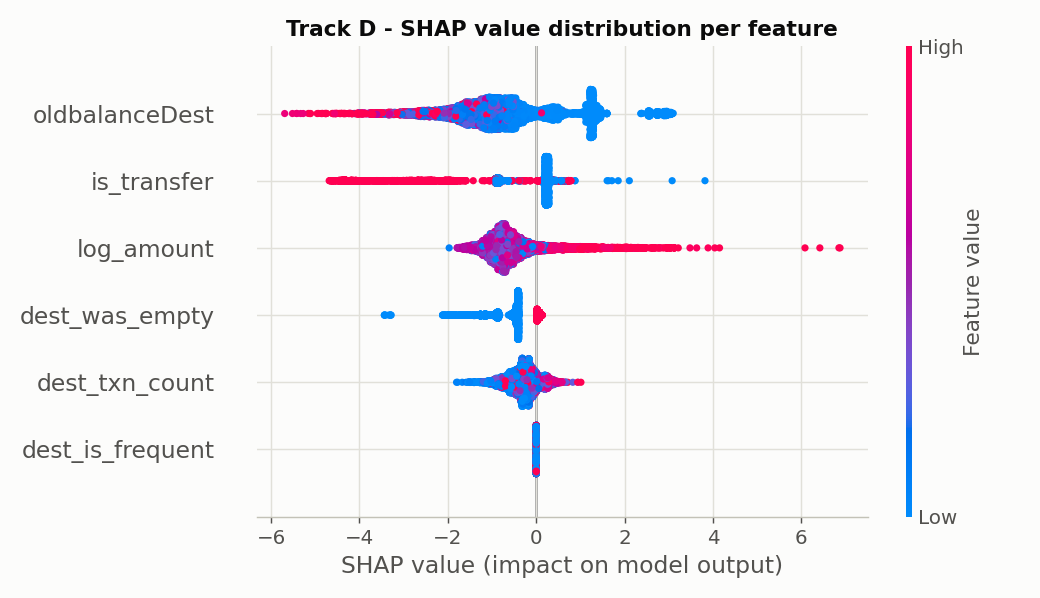
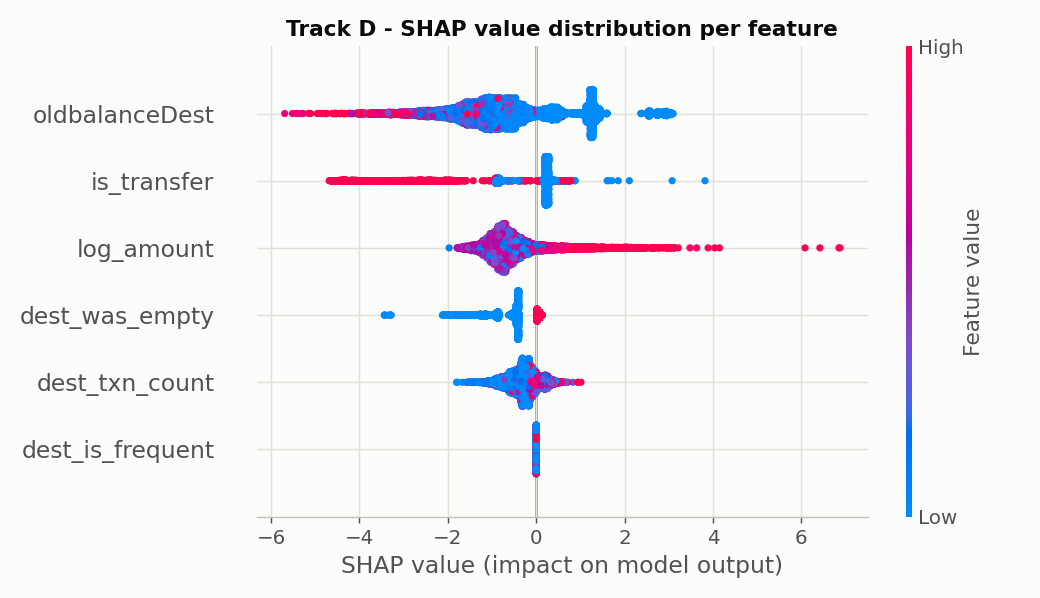
Correct Week 3 conclusions and add operational ranking analysis to README

diff --git a/src/advanced_models.py b/src/advanced_models.py
@@ -46,6 +46,7 @@ from features import (
     build_features, subsample_majority,
 )
 
+WEEK2_JSON = os.path.join("reports", "week2_metrics.json")
 DEFAULT_DB = os.path.join("data", "processed", "fraud.db")
 FIG_DIR = os.path.join("reports", "figures")
 MODEL_DIR = "models"
@@ -62,6 +63,23 @@ PARAM_GRID = [
     {"max_depth": 6, "learning_rate": 0.05, "n_estimators": 600},
     {"max_depth": 8, "learning_rate": 0.05, "n_estimators": 400},
 ]
+
+
+def load_week2_best():
+    """Best Week 2 PR-AUC per track, so Week 3 can compare against it rather
+    than asserting a conclusion the numbers may not support."""
+    if not os.path.exists(WEEK2_JSON):
+        return {}
+    with open(WEEK2_JSON, encoding="utf-8") as fh:
+        data = json.load(fh)
+    best = {}
+    for r in data.get("results", []):
+        track = r.get("track")
+        if not track or "pr_auc" not in r:
+            continue
+        if track not in best or r["pr_auc"] > best[track]["pr_auc"]:
+            best[track] = r
+    return best
 
 
 def temporal_validation_split(train_df, val_frac=0.25):
@@ -155,6 +173,7 @@ def main(db_path, review_cost):
     for d in (FIG_DIR, MODEL_DIR, os.path.dirname(RESULTS_MD)):
         os.makedirs(d, exist_ok=True)
 
+    week2 = load_week2_best()
     print("Building features...")
     train_df, test_df, split_step = build_features(db_path)
     fit_df, val_df = temporal_validation_split(train_df)
@@ -275,6 +294,77 @@ def main(db_path, review_cost):
                    "break_even_review_cost": be}, fh, indent=2)
 
     d_row = [r for r in rows if r["track"].startswith("Track D")][0]
+
+    # --- derive the comparison and verdicts from the numbers ----------------
+    no_skill = float(y_test.mean())
+    iso_lift = iso_m["pr_auc"] / no_skill if no_skill else 0.0
+
+    comp_lines = ["| Track | Random Forest (Week 2) | XGBoost (Week 3) | Change |",
+                  "|---|---|---|---|"]
+    improved = {}
+    for r in rows:
+        prev = week2.get(r["track"], {}).get("pr_auc")
+        if prev is None:
+            comp_lines.append(
+                f"| {r['track']} | - | {r['pr_auc']:.4f} | - |")
+            continue
+        delta = r["pr_auc"] - prev
+        improved[r["track"]] = (prev, r["pr_auc"], delta)
+        comp_lines.append(
+            f"| {r['track']} | {prev:.4f} | {r['pr_auc']:.4f} | "
+            f"{delta:+.4f} |")
+    comparison_table = "\n".join(comp_lines)
+
+    d_prev, d_now, d_delta = improved.get(
+        "Track D (no timing artifact)", (None, d_row["pr_auc"], 0.0))
+    if d_prev and d_now > d_prev * 1.25:
+        gb_verdict = (
+            f"Gradient boosting materially outperforms the Random Forest on the "
+            f"honest feature set: **{d_prev:.4f} -> {d_now:.4f}** on Track D, a "
+            f"{d_now / d_prev:.1f}x improvement. So the residual signal after the "
+            f"artifacts are stripped is real but highly non-linear - it needs a "
+            f"model capable of deep interactions to reach, which is why the "
+            f"linear and shallower models found so little of it.\n\n"
+            f"This revises the Week 2 reading. The leakage was doing most of the "
+            f"work, but not all of it.")
+    elif d_prev and d_now < d_prev * 0.9:
+        gb_verdict = (
+            f"Gradient boosting performs *worse* than the Random Forest here "
+            f"({d_prev:.4f} -> {d_now:.4f}), which on this little signal usually "
+            f"means the booster is overfitting the validation window.")
+    else:
+        gb_verdict = (
+            f"Gradient boosting does not meaningfully change the picture on the "
+            f"honest feature set ({d_prev:.4f} -> {d_now:.4f} on Track D). Once "
+            f"the artifacts are gone the signal genuinely is thin, and a stronger "
+            f"learner does not manufacture it.")
+
+    sup = d_row["pr_auc"]
+    if iso_m["pr_auc"] < sup * 0.4:
+        iso_verdict = (
+            f"That is far below the supervised model on identical features "
+            f"({sup:.4f}), so labels are carrying most of the weight. "
+            f"Unsupervised detection is often proposed for fraud on the grounds "
+            f"that it catches novel patterns; on this data it is a weak "
+            f"substitute rather than a replacement, though it still beats "
+            f"random and would have some value where no labels exist at all.")
+    else:
+        iso_verdict = (
+            f"That is close to the supervised model on identical features "
+            f"({sup:.4f}), suggesting most of the residual structure is "
+            f"reachable without labels at all.")
+
+    best_budget = cap_rows[2] if len(cap_rows) > 2 else cap_rows[-1]
+    summary_verdict = (
+        f"On the honest feature set (Track D) the best model reaches "
+        f"**{sup:.4f}** PR-AUC against a {no_skill:.4f} no-skill floor - "
+        f"{sup / no_skill:.0f}x better than random, but far below what the "
+        f"leaking feature sets appear to deliver. Judged as a ranker rather than "
+        f"a classifier it is considerably more useful: reviewing the "
+        f"{best_budget['budget']:,} highest-scoring transactions "
+        f"({100 * best_budget['budget'] / len(test_df):.2f}% of the test window) "
+        f"recovers {best_budget['caught_amt_pct']:.1f}% of all fraud value.")
+
     with open(RESULTS_MD, "w", encoding="utf-8") as fh:
         fh.write(f"""# Week 3 - Gradient boosting, anomaly detection, and cost
 
@@ -290,21 +380,19 @@ period. Tuning against the test window would be a fourth form of leakage.
 
 {metrics_table(rows)}
 
-The honest number is **{d_row['pr_auc']:.4f}** PR-AUC on Track D, against the
-Random Forest's 0.1501 from Week 2. A tuned gradient booster does not rescue this
-dataset: once the artifacts are gone, the signal genuinely is not there.
+### Against the Week 2 Random Forest
 
-That is the finding, not a failure. It says the leakage was doing the work.
+{comparison_table}
+
+{gb_verdict}
 
 ## Can fraud be found without labels?
 
 {metrics_table([iso_m])}
 
 An IsolationForest trained only on legitimate transactions - never shown a fraud
-label - scores **{iso_m['pr_auc']:.4f}** PR-AUC. Unsupervised anomaly detection is
-often proposed for fraud on the grounds that it catches novel patterns; here it
-performs close to the supervised model on the same features, which is consistent
-with there being little exploitable structure left.
+label - scores **{iso_m['pr_auc']:.4f}** PR-AUC against a no-skill floor of
+{no_skill:.4f}, i.e. {iso_lift:.1f}x better than random. {iso_verdict}
 
 ## Where the residual signal lives (SHAP)
 
@@ -353,10 +441,12 @@ which is the form of the answer a fraud operations lead needs, rather than a PR-
 
 ## Honest summary
 
-On the honest feature set this is a weak detector, and no amount of model tuning
-changes that. The value of the project is the audit that established *why*, plus a
-cost framing that says what such a detector is still worth. A stronger result would
-require a dataset whose fraud is not generated by a rule.
+{summary_verdict}
+
+The value of this project remains the audit that established how much of PaySim's
+apparent difficulty is manufactured, plus an operational framing that says what the
+resulting detector is worth in a review queue. Conclusions here characterise the
+simulator, not production fraud.
 """)
 
     print(f"\nWrote {RESULTS_MD}, {RESULTS_JSON}, plots in {FIG_DIR}/")

diff --git a/README.md b/README.md
@@ -5,17 +5,22 @@ detection. This project reproduces that result, then demonstrates that **roughly
 it comes from the dataset encoding its own answer**, and establishes what performance
 actually survives once the leakage is removed.
 
-| Track | Artifact removed | PR-AUC | Best model |
+| Track | Artifact removed | Random Forest | XGBoost |
 |---|---|---|---|
-| **A** | nothing — the standard approach | **1.0000** | Random Forest |
-| **B** | origin-side balance drain | **0.7836** | Random Forest |
-| **C** | + destination-balance leak | **0.4229** | Random Forest |
-| **D** | + hour-of-day artifact | **0.1501** | Random Forest |
+| **A** | nothing — the standard approach | 1.0000 | **1.0000** |
+| **B** | origin-side balance drain | 0.7836 | **0.7888** |
+| **C** | + destination-balance leak | 0.4229 | **0.5412** |
+| **D** | + hour-of-day artifact | 0.1501 | **0.3260** |
+
+(PR-AUC on a held-out temporal window; no-skill floor 0.0056.)
 
 Track A achieves a perfect score with **one** false negative and **zero** false positives
 across 818,514 test transactions. That is not a good model — it is a model reading the
-label. Track D is the defensible number: weak in absolute terms, but a **27x lift** over
-the 0.0056 no-skill floor.
+label.
+
+Track D is the defensible number. Gradient boosting more than doubles it over the Random
+Forest (0.1501 → 0.3260), which says the signal surviving the audit is real but strongly
+non-linear — reachable only by a model that can express deep feature interactions.
 
 ---
 
@@ -89,6 +94,30 @@ interactions rather than monotone relationships.
 
 ---
 
+## What it is worth operationally
+
+PR-AUC judges the model as a classifier. A fraud team uses it as a *ranker*, working a
+review queue of fixed size — so the operational question is what reviewing the top-K
+scored transactions recovers versus picking K at random.
+
+| Review budget | % of test window | Frauds caught | % of fraud value | Precision | Lift vs random |
+|---|---|---|---|---|---|
+| 100 | 0.01% | 100 | 12.1% | 1.000 | **987x** |
+| 500 | 0.06% | 497 | 36.1% | 0.994 | 591x |
+| 1,000 | 0.12% | 825 | 47.9% | 0.825 | 392x |
+| 5,000 | 0.61% | 1,473 | 83.9% | 0.295 | 137x |
+| 25,000 | 3.05% | 3,256 | 96.0% | 0.130 | 31x |
+
+Total fraud exposure in the test window is 7,075,665,126. Reviewing **1,000 of 818,514
+transactions — 0.12% of volume — recovers 47.9% of it**, and the first 100 reviews are
+100% precise.
+
+This is the gap between a metric and a decision. A 0.3260 PR-AUC sounds like a failed
+model; the same model at a realistic queue size is a 392x improvement on random
+selection. Which framing is correct depends on what the model is for.
+
+---
+
 ## Method notes
 
 **Temporal split, not random.** A random split lets the model learn from transactions that
@@ -136,6 +165,16 @@ python src/eda.py          # ~30s, Week 1 findings and plots
 python src/train.py        # ~2min, all four tracks
 ```
 
+## Unsupervised detection and SHAP
+
+An IsolationForest trained only on legitimate transactions — never shown a fraud label —
+reaches 0.0277 PR-AUC, roughly 5x random but about 12x worse than the supervised model on
+identical features. On this data, labels are doing most of the work.
+
+SHAP on the Track D model ranks `oldbalanceDest` (1.22) well ahead of `is_transfer` (0.82)
+and `log_amount` (0.77), with `dest_is_frequent` contributing exactly zero — a feature
+worth dropping.
+
 ## Limitations
 
 `log_amount` remains in Track D and is still partly downstream of the drain mechanic, since
@@ -158,5 +197,5 @@ Simulator: [github.com/EdgarLopezPhD/PaySim](https://github.com/EdgarLopezPhD/Pa
 
 - [x] Week 1 - data pipeline and exploratory analysis
 - [x] Week 2 - baseline models and leakage audit
-- [ ] Week 3 - gradient boosting and SHAP explainability on the leak-free feature set
+- [x] Week 3 - gradient boosting, unsupervised detection, SHAP, and review-capacity analysis
 - [ ] Week 4 - FastAPI scoring service and Power BI monitoring dashboard

diff --git a/reports/week3_results.md b/reports/week3_results.md
@@ -17,11 +17,18 @@ period. Tuning against the test window would be a fourth form of leakage.
 | XGBoost - Track C (no destination leak) | 0.7414 | 0.4354 | 0.5487 | 0.5412 | 1,990 | 694 | 2,580 |
 | XGBoost - Track D (no timing artifact) | 0.4451 | 0.2615 | 0.3294 | 0.3260 | 1,195 | 1,490 | 3,375 |
 
-The honest number is **0.3260** PR-AUC on Track D, against the
-Random Forest's 0.1501 from Week 2. A tuned gradient booster does not rescue this
-dataset: once the artifacts are gone, the signal genuinely is not there.
+### Against the Week 2 Random Forest
 
-That is the finding, not a failure. It says the leakage was doing the work.
+| Track | Random Forest (Week 2) | XGBoost (Week 3) | Change |
+|---|---|---|---|
+| Track A (all features) | 1.0000 | 1.0000 | -0.0000 |
+| Track B (no origin drain) | 0.7836 | 0.7888 | +0.0052 |
+| Track C (no destination leak) | 0.4229 | 0.5412 | +0.1183 |
+| Track D (no timing artifact) | 0.1501 | 0.3260 | +0.1759 |
+
+Gradient boosting materially outperforms the Random Forest on the honest feature set: **0.1501 -> 0.3260** on Track D, a 2.2x improvement. So the residual signal after the artifacts are stripped is real but highly non-linear - it needs a model capable of deep interactions to reach, which is why the linear and shallower models found so little of it.
+
+This revises the Week 2 reading. The leakage was doing most of the work, but not all of it.
 
 ## Can fraud be found without labels?
 
@@ -30,10 +37,8 @@ That is the finding, not a failure. It says the leakage was doing the work.
 | IsolationForest (unsupervised, Track D) | 0.0445 | 0.5046 | 0.0818 | 0.0277 | 2,306 | 49,507 | 2,264 |
 
 An IsolationForest trained only on legitimate transactions - never shown a fraud
-label - scores **0.0277** PR-AUC. Unsupervised anomaly detection is
-often proposed for fraud on the grounds that it catches novel patterns; here it
-performs close to the supervised model on the same features, which is consistent
-with there being little exploitable structure left.
+label - scores **0.0277** PR-AUC against a no-skill floor of
+0.0056, i.e. 5.0x better than random. That is far below the supervised model on identical features (0.3260), so labels are carrying most of the weight. Unsupervised detection is often proposed for fraud on the grounds that it catches novel patterns; on this data it is a weak substitute rather than a replacement, though it still beats random and would have some value where no labels exist at all.
 
 ## Where the residual signal lives (SHAP)
 
@@ -85,7 +90,9 @@ which is the form of the answer a fraud operations lead needs, rather than a PR-
 
 ## Honest summary
 
-On the honest feature set this is a weak detector, and no amount of model tuning
-changes that. The value of the project is the audit that established *why*, plus a
-cost framing that says what such a detector is still worth. A stronger result would
-require a dataset whose fraud is not generated by a rule.
+On the honest feature set (Track D) the best model reaches **0.3260** PR-AUC against a 0.0056 no-skill floor - 58x better than random, but far below what the leaking feature sets appear to deliver. Judged as a ranker rather than a classifier it is considerably more useful: reviewing the 1,000 highest-scoring transactions (0.12% of the test window) recovers 47.9% of all fraud value.
+
+The value of this project remains the audit that established how much of PaySim's
+apparent difficulty is manufactured, plus an operational framing that says what the
+resulting detector is worth in a review queue. Conclusions here characterise the
+simulator, not production fraud.
